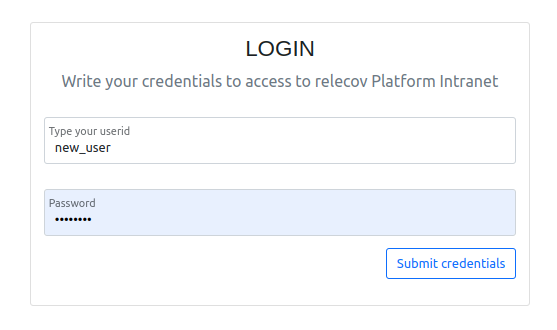
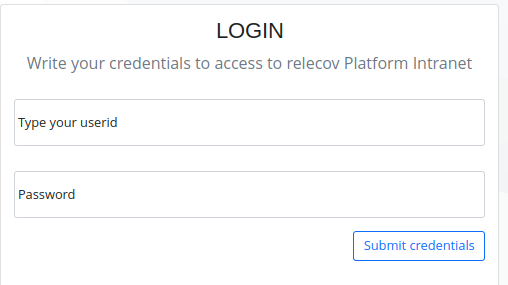
deleting login images and working on intranet page

diff --git a/relecov_documentation/markdown_files/intranet.md b/relecov_documentation/markdown_files/intranet.md
@@ -1,25 +1,41 @@
-# relecov-platform Intranet
+# Intranet
 
-### How to access to relecov-platform Intranet
+Intranet is an Area where Laboratory can see information about the samples that
+they have preeviously uploaded.
 
-Requirements:
+It is important to mention that Laboratory can only get information from their
+own samples.
 
-- User account provided by the application administrator. For more info, [click here](/documentation/createUserAccount).
+For that reason you must login to access this area.
 
 
-On the home page of the relecov-platform application, we must click on the Intranet link, as shown in the following image:
+### Accessing to Intranet
+To access Intranet click on the "Intranet" button.
 
 ![relecov-platform navbar](img/relecov_platform_navbar.png)
 
-Now we can see a panel to access the intranet.
-We must enter our username and password, and finally click on Submit credentials button.
+---
+
+If you do not have yet the login credential contact with your manager to request
+them for you.
+
+---
+
+For **admin** user follow the instructions provide in [Create new user](/documentation/createNewUSer) to add new user.
+
+
+
+
+Enter your username and password, and click on Submit credentials button.
 
 ![relecov-platform login intranet](img/login_intranet.png)
 
-After entering our credentials correctly, the application will take us back to the home page.
+After login correctly, the available options are showed on the left side.
+
+
 In the upper right corner we will see our username and the logout button
 
-![relecov-platform login intranet](img/login_intranet_ok.png)
+
 
 To access the utilities contained in the intranet, we will click on the Intranet button again.
 
